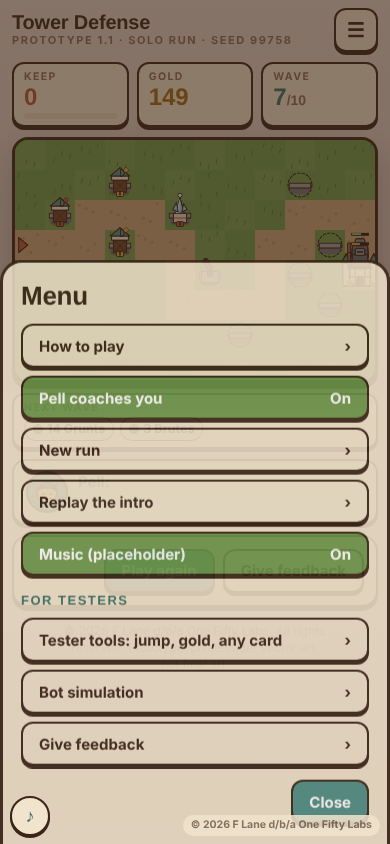
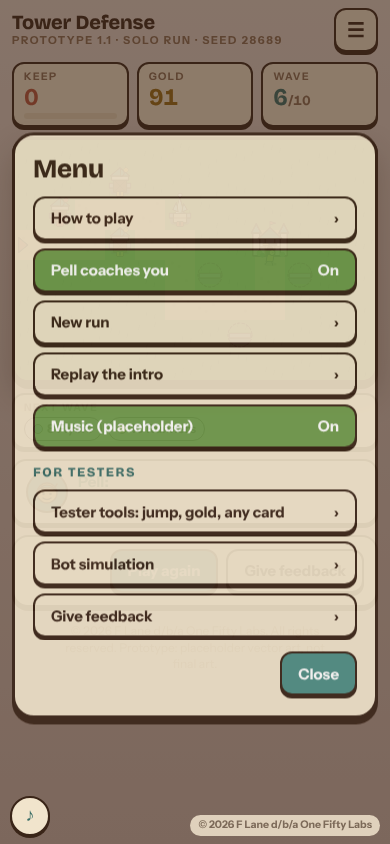
Tower Defense: center the card draft, menu and other pop-ups on screen
Claude-Session: https://claude.ai/code/session_01KYYVreu9B8ZtmsectQoSFD

diff --git a/tower-defense/builds/tower-defense-p1.html b/tower-defense/builds/tower-defense-p1.html
@@ -120,8 +120,8 @@ canvas#map { display: block; width: 100%; height: auto; touch-action: manipulati
 .waves i.done { background: var(--moss); } .waves i.now { background: var(--gold); }
 
 /* ---------- overlays ---------- */
-.veil-bg { position: fixed; inset: 0; background: rgba(58,37,24,.55); display: grid; place-items: end center; z-index: 50; }
-.modal { background: var(--paper); border: 3px solid var(--ink); border-radius: 22px 22px 0 0; padding: 20px max(18px, env(safe-area-inset-right, 0px)) calc(22px + env(safe-area-inset-bottom, 0px)) max(18px, env(safe-area-inset-left, 0px)); width: min(560px, 100%); max-height: 92vh; overflow: auto; display: flex; flex-direction: column; gap: 14px; animation: sheetUp .3s ease-out; }
+.veil-bg { position: fixed; inset: 0; background: rgba(58,37,24,.55); display: grid; place-items: center; padding: 12px; z-index: 50; }
+.modal { background: var(--paper); border: 3px solid var(--ink); border-radius: 22px; box-shadow: 0 6px 0 var(--ink); padding: 20px 18px; width: min(560px, 100%); max-height: calc(100vh - 24px); max-height: calc(100dvh - 24px); overflow: auto; display: flex; flex-direction: column; gap: 14px; animation: sheetUp .3s ease-out; }
 @keyframes sheetUp { from { transform: translateY(30px); opacity: 0; } to { transform: none; opacity: 1; } }
 .modal h2 { font-size: 26px; }
 .modal p, .modal ol, .modal ul { margin: 0; }

diff --git a/tower-defense/prototype/head.html b/tower-defense/prototype/head.html
@@ -117,8 +117,8 @@ canvas#map { display: block; width: 100%; height: auto; touch-action: manipulati
 .waves i.done { background: var(--moss); } .waves i.now { background: var(--gold); }
 
 /* ---------- overlays ---------- */
-.veil-bg { position: fixed; inset: 0; background: rgba(58,37,24,.55); display: grid; place-items: end center; z-index: 50; }
-.modal { background: var(--paper); border: 3px solid var(--ink); border-radius: 22px 22px 0 0; padding: 20px max(18px, env(safe-area-inset-right, 0px)) calc(22px + env(safe-area-inset-bottom, 0px)) max(18px, env(safe-area-inset-left, 0px)); width: min(560px, 100%); max-height: 92vh; overflow: auto; display: flex; flex-direction: column; gap: 14px; animation: sheetUp .3s ease-out; }
+.veil-bg { position: fixed; inset: 0; background: rgba(58,37,24,.55); display: grid; place-items: center; padding: 12px; z-index: 50; }
+.modal { background: var(--paper); border: 3px solid var(--ink); border-radius: 22px; box-shadow: 0 6px 0 var(--ink); padding: 20px 18px; width: min(560px, 100%); max-height: calc(100vh - 24px); max-height: calc(100dvh - 24px); overflow: auto; display: flex; flex-direction: column; gap: 14px; animation: sheetUp .3s ease-out; }
 @keyframes sheetUp { from { transform: translateY(30px); opacity: 0; } to { transform: none; opacity: 1; } }
 .modal h2 { font-size: 26px; }
 .modal p, .modal ol, .modal ul { margin: 0; }

diff --git a/tower-defense/patch-notes.md b/tower-defense/patch-notes.md
@@ -12,6 +12,7 @@ Say **"add to patch notes"** to Claude any time to add to the top entry. Claude 
 
 ### What's new
 - **The card draft is now a pop-up.** After each wave, once the "Wave held" banner shows, three random cards pop up over the map. Pick one and it stays for the whole run. Closing the menu mid-draft brings the cards back.
+- **Pop-ups sit in the middle of the screen.** The card draft, the menu and every other pop-up are now centered instead of docked to the bottom.
 - **Upgrade prompt after the pick.** Towers you can afford to upgrade get a gold ▲ on the map, and Pell points you at them right after you pick a card.
 - **Unchanged:** cards, towers, waves and balance.
 
